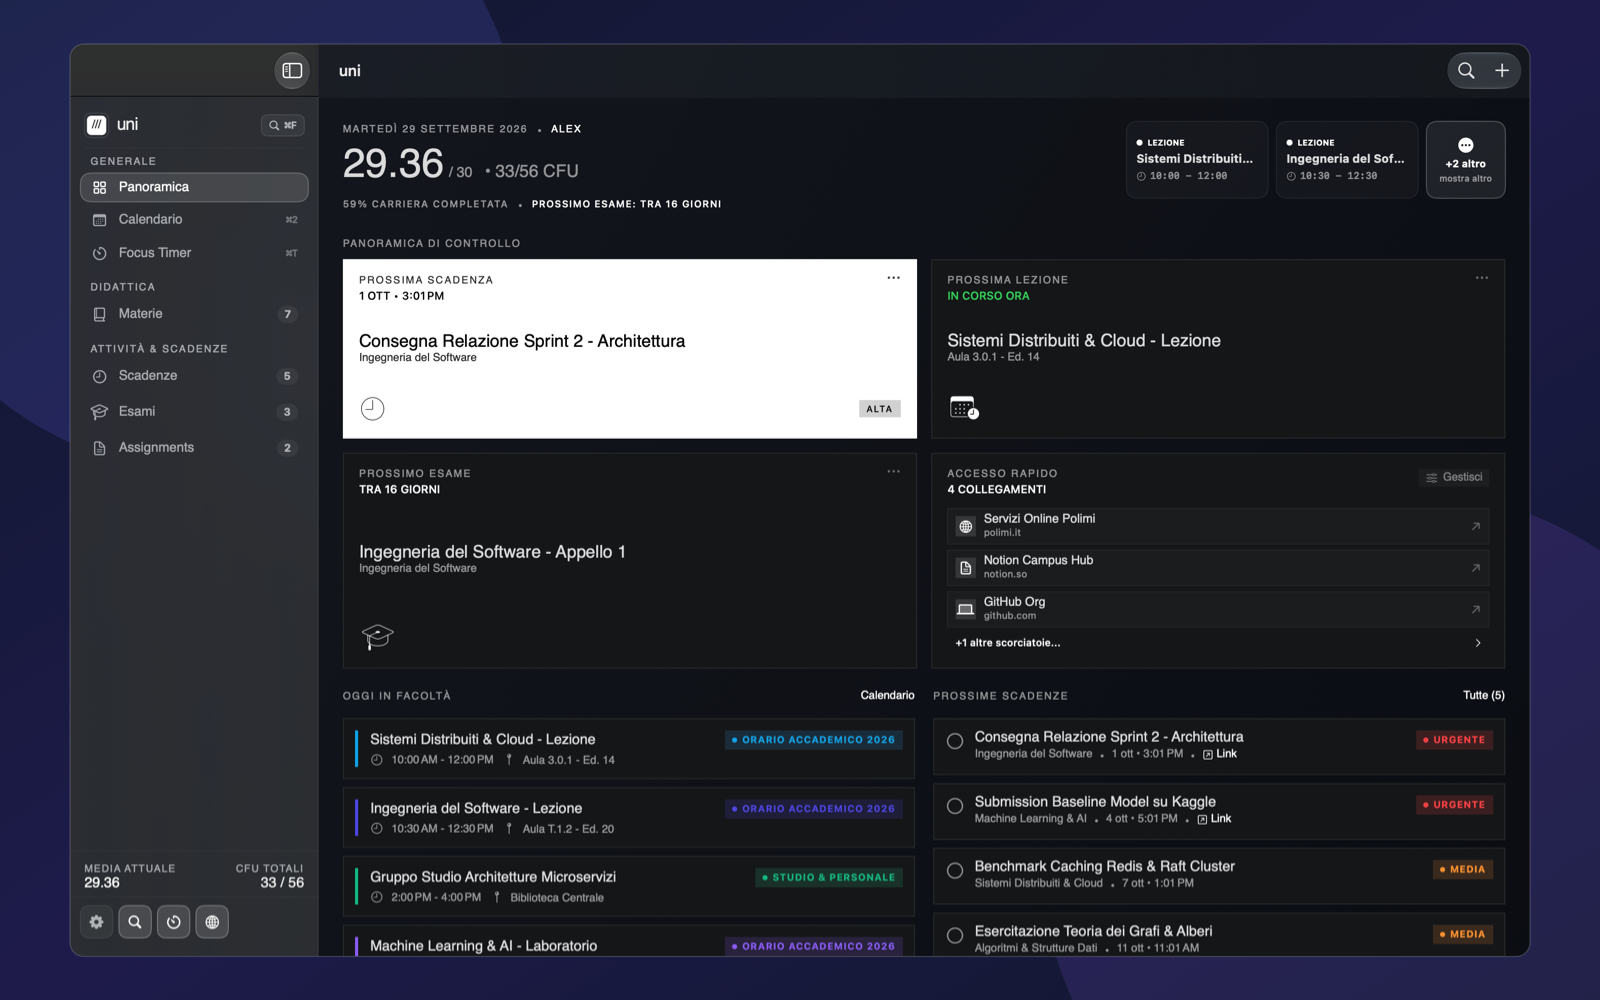
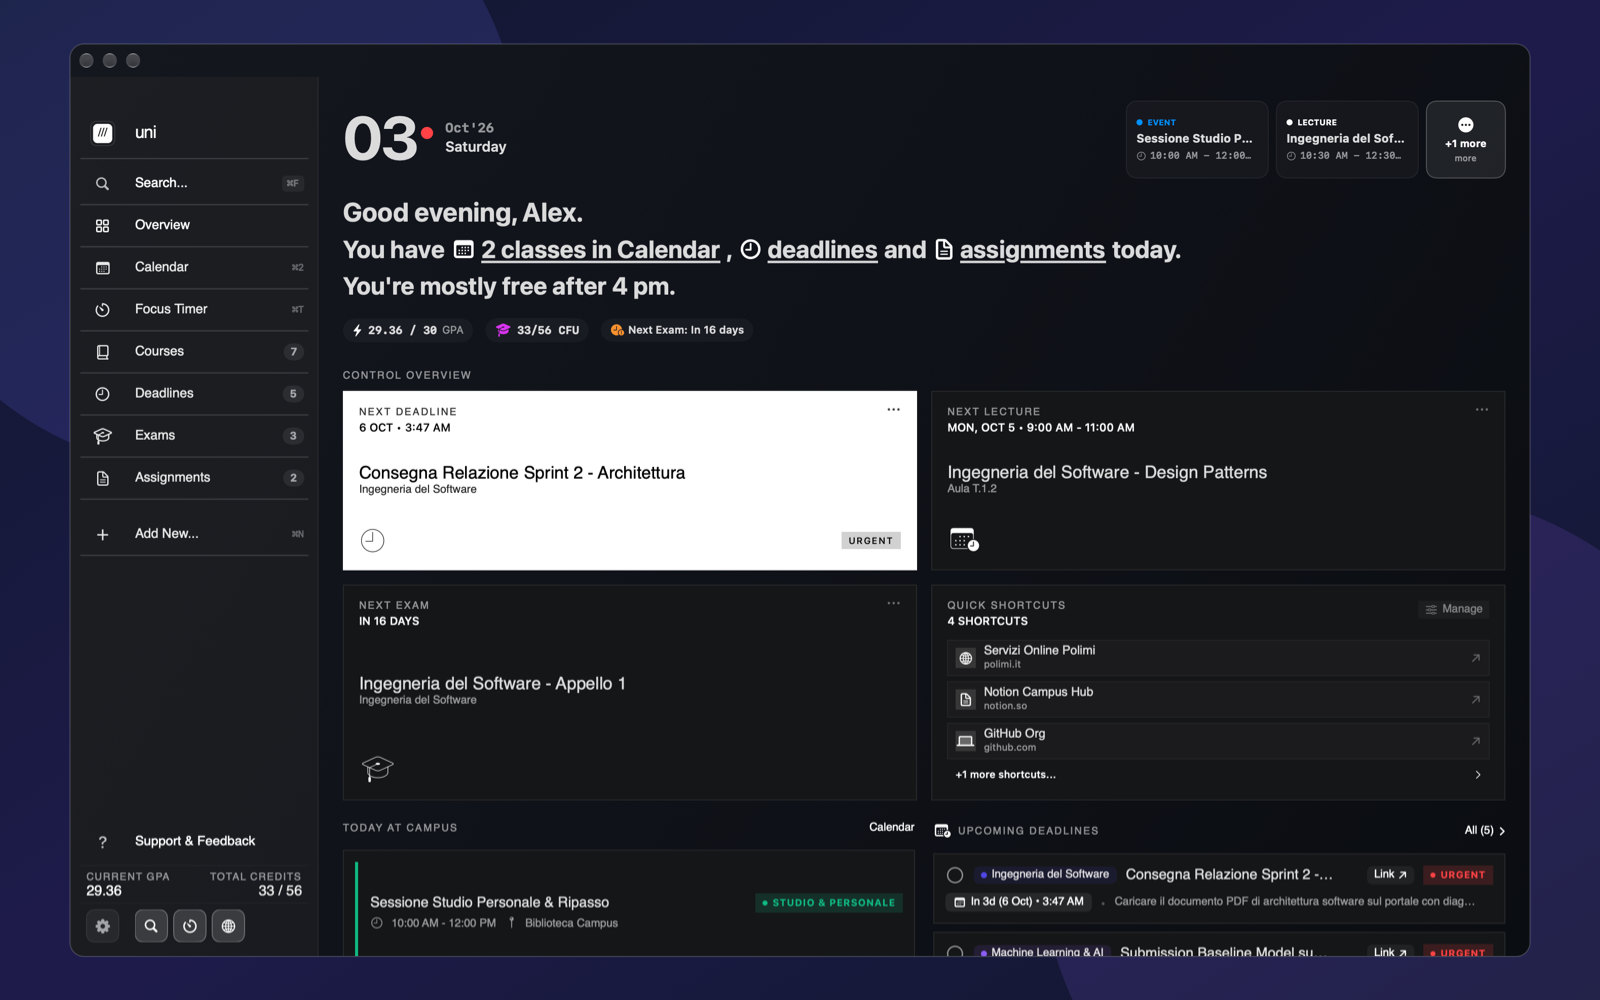
feat(showcase): update uni screenshots to webp & add zoomed preview with corner app badge on home grid

diff --git a/index.css b/index.css
@@ -965,6 +965,35 @@ main>#figma-container {
   /* Importantissimo per non deformare il video */
 }
 
+/* Badge icona app per le tessere dell'home grid */
+.grid-corner-badge {
+  position: absolute;
+  top: 14px;
+  right: 14px;
+  width: 44px;
+  height: 44px;
+  border-radius: 11px;
+  background: rgba(255, 255, 255, 0.95);
+  box-shadow: 0 4px 14px rgba(0, 0, 0, 0.16), 0 1px 3px rgba(0, 0, 0, 0.08);
+  border: 1px solid rgba(0, 0, 0, 0.1);
+  padding: 3px;
+  display: flex;
+  align-items: center;
+  justify-content: center;
+  z-index: 5;
+  pointer-events: none;
+  backdrop-filter: blur(10px);
+  -webkit-backdrop-filter: blur(10px);
+  transition: transform 0.3s cubic-bezier(0.25, 1, 0.5, 1);
+}
+
+.grid-corner-badge img {
+  width: 100% !important;
+  height: 100% !important;
+  object-fit: contain !important;
+  border-radius: 8px;
+}
+
 .card-back {
   transform: rotateY(180deg);
   display: flex;

diff --git a/index.html b/index.html
@@ -92,9 +92,12 @@
 
           <div class="grid-item tile-large" data-title="uni" data-link="uni/uni.html">
             <div class="card-flipper">
-              <div class="card-front"><img src="imghome/uni_icon.png" alt="uni"
-                  style="padding: 18%; object-fit: contain; width: 100%; height: 100%; background-color: #ffffff;"
-                  loading="lazy"></div>
+              <div class="card-front">
+                <img src="imghome/uni_zoomed.webp" alt="uni — dashboard preview" loading="lazy">
+                <div class="grid-corner-badge" aria-hidden="true">
+                  <img src="imghome/uni_icon.webp" alt="uni app icon">
+                </div>
+              </div>
               <div class="card-back">
                 <h3>uni</h3><a href="uni/uni.html" class="card-btn">discover</a>
               </div>
